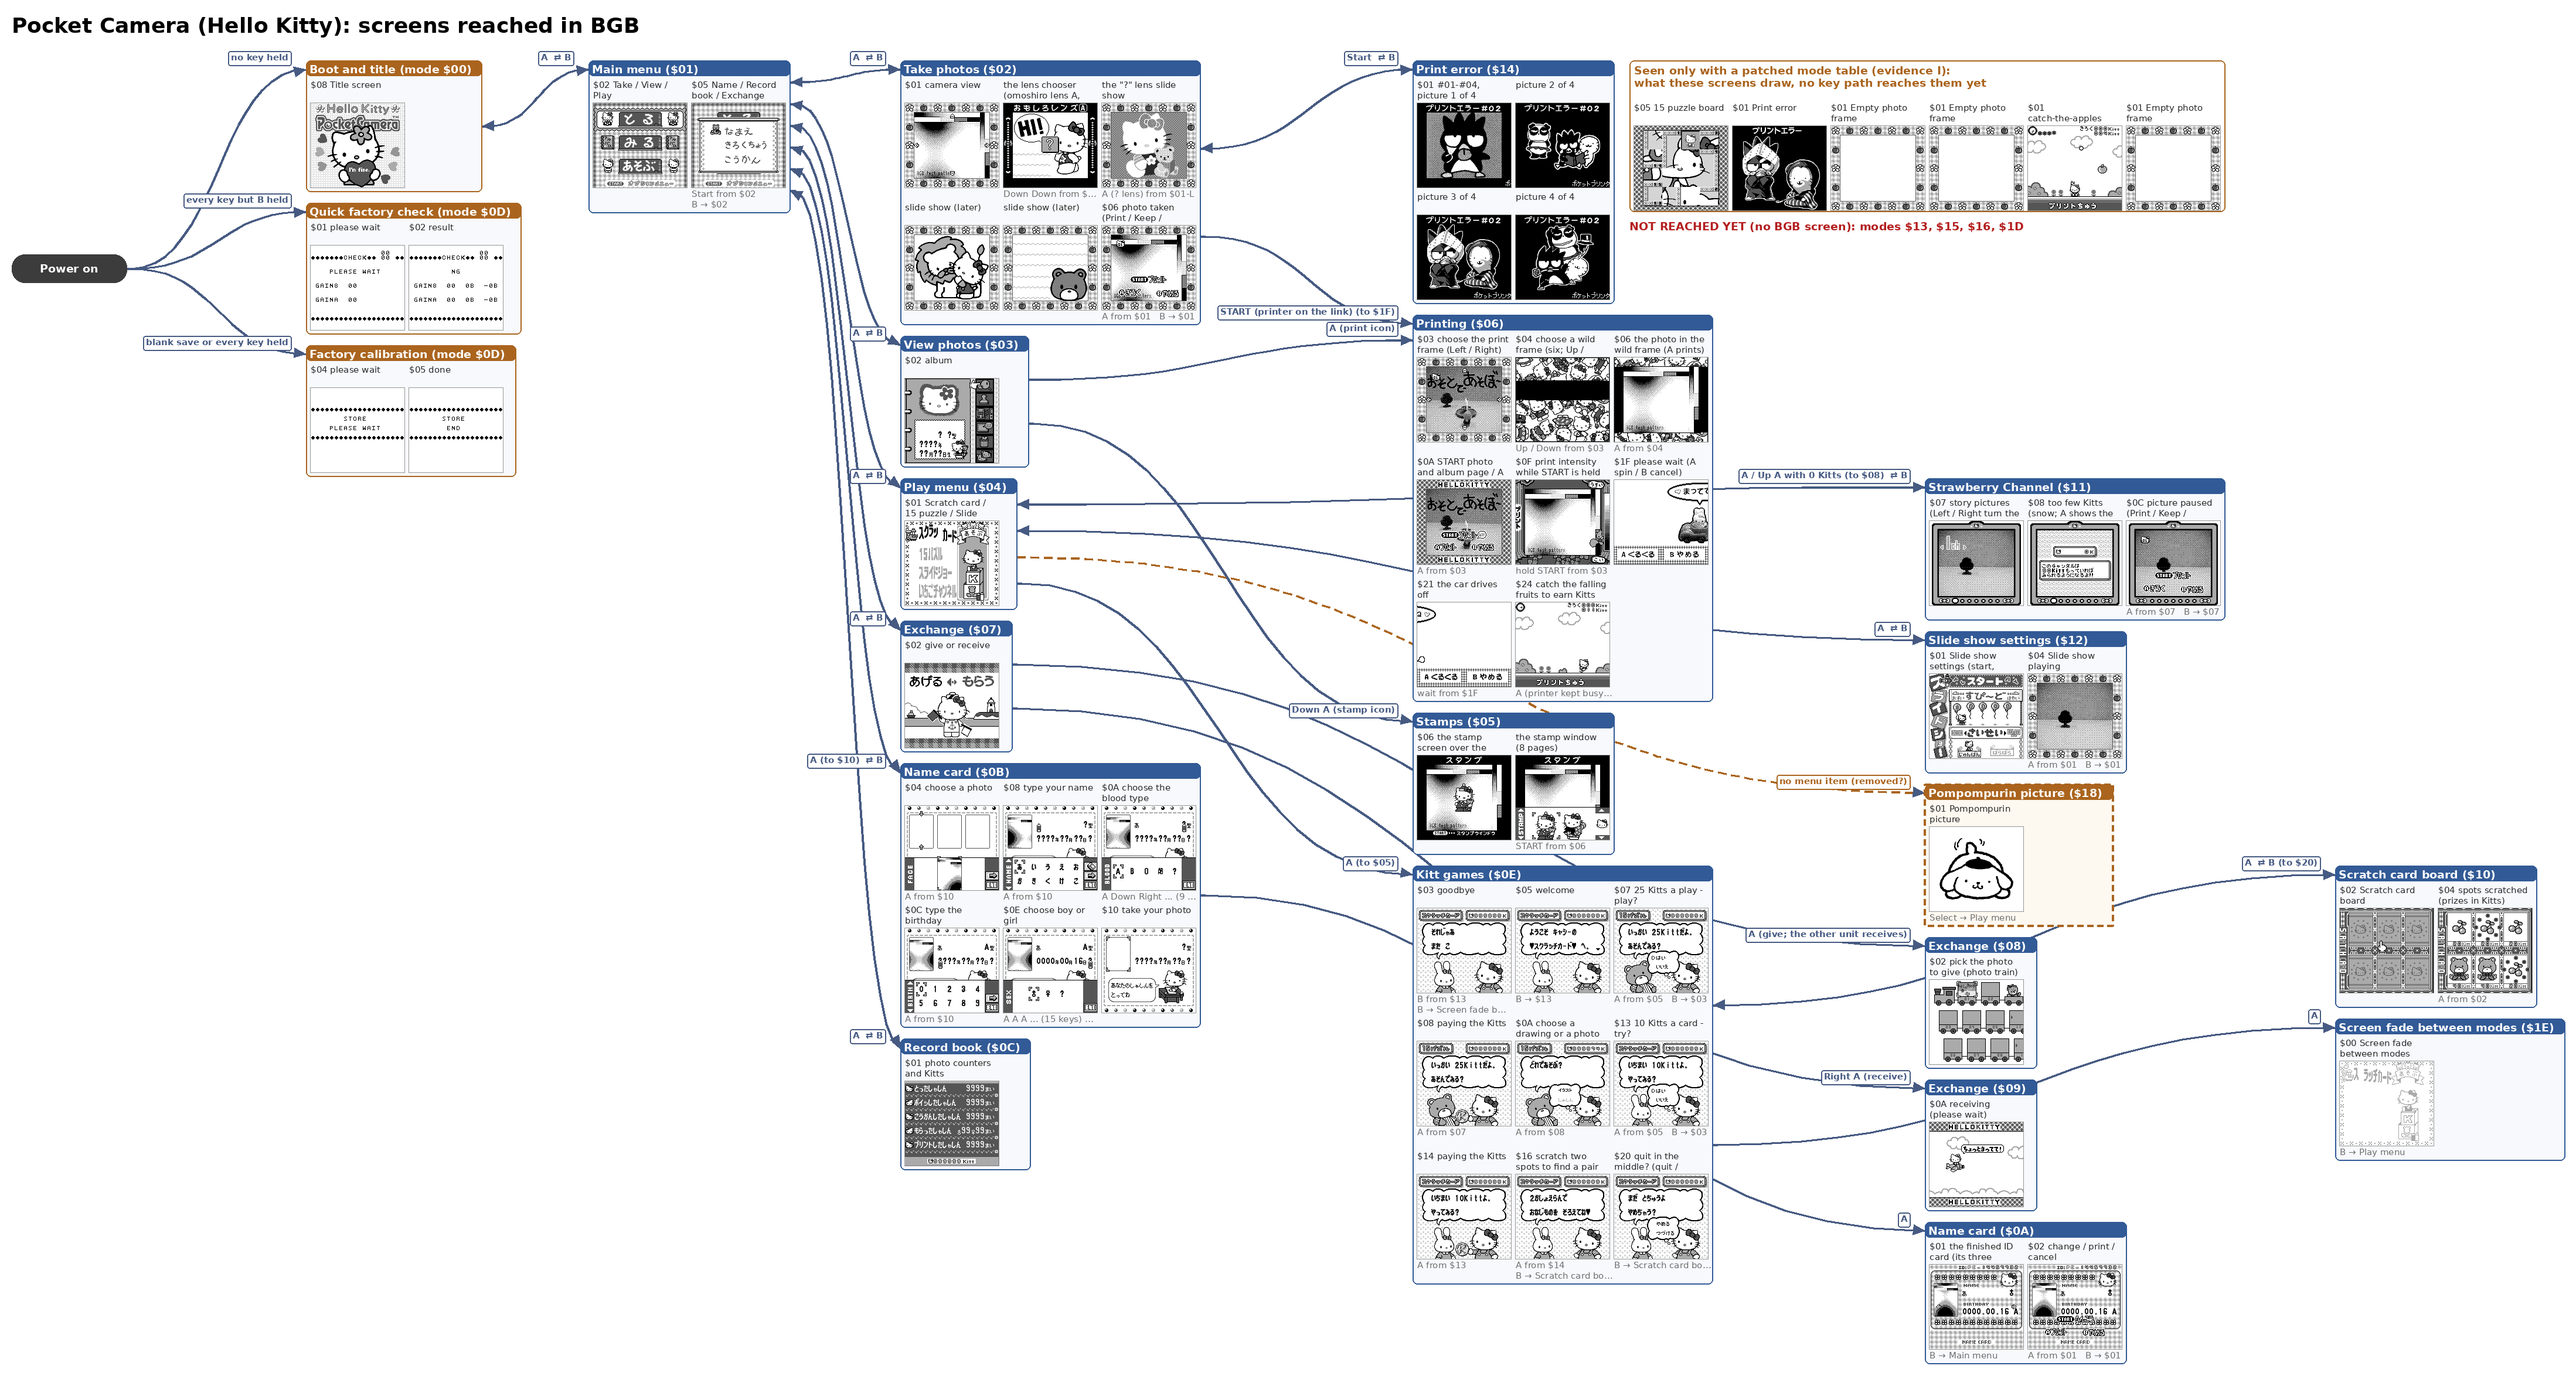
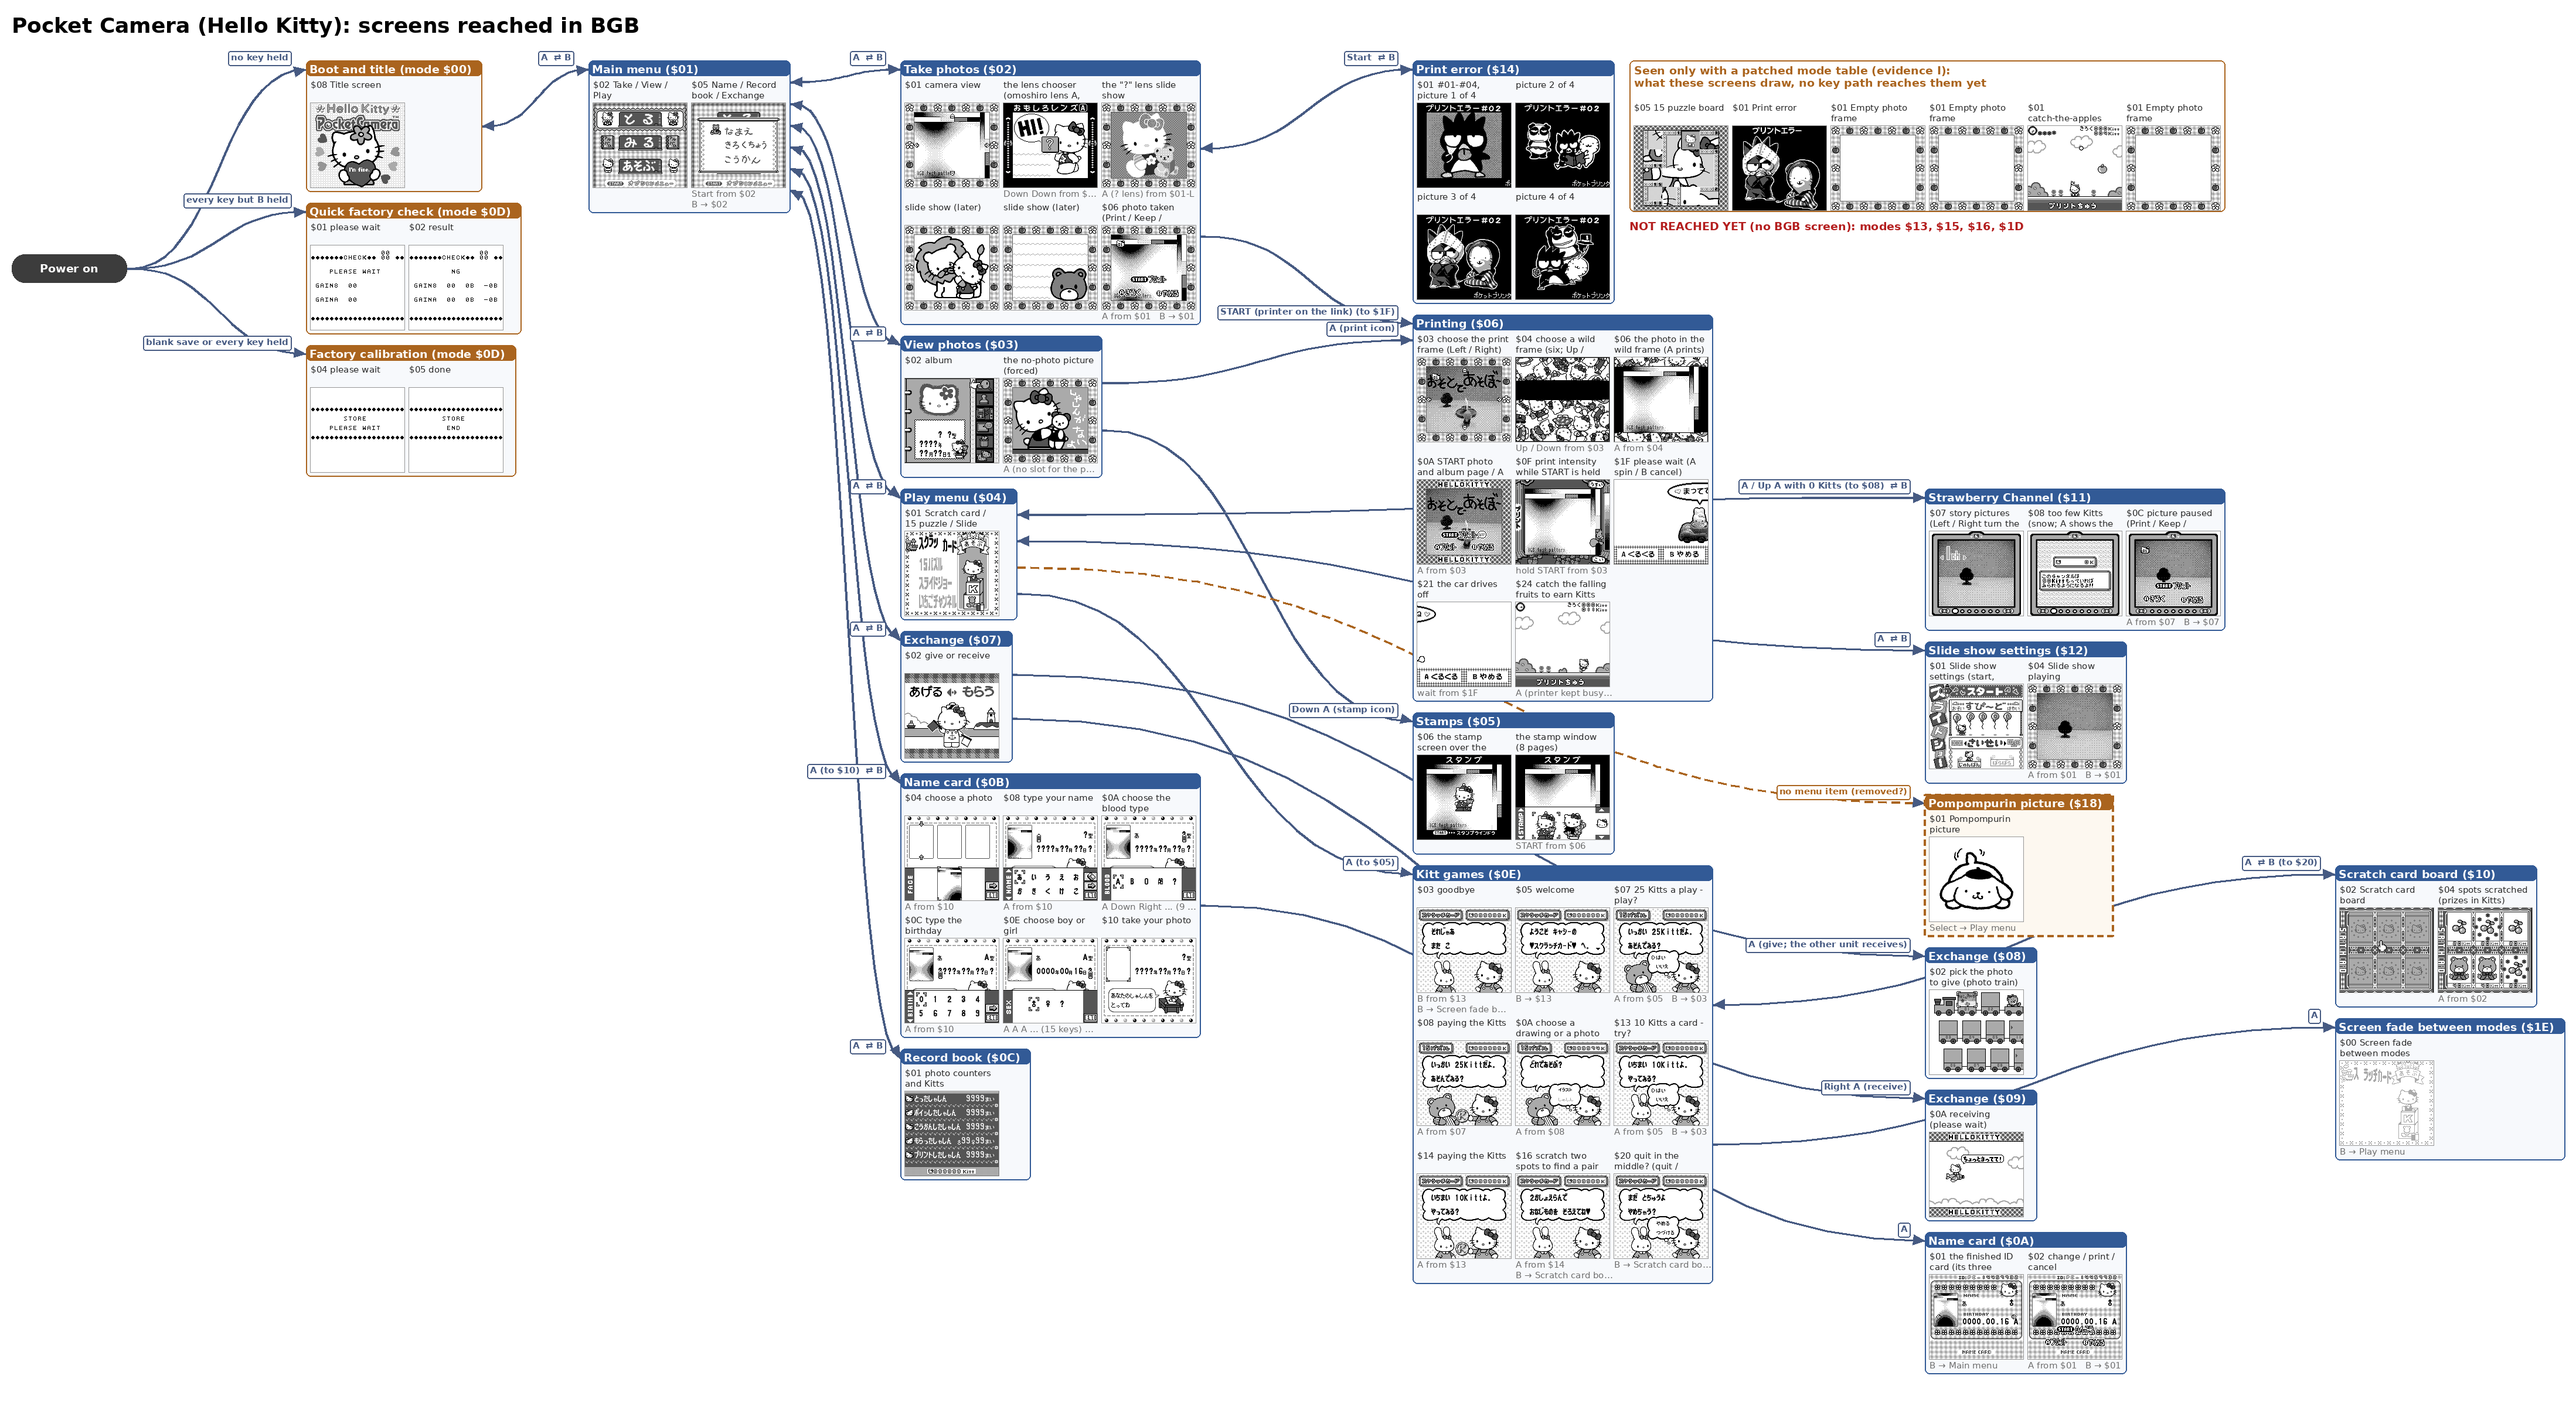
Hello Kitty: the no-photo picture 11:7000 shown in BGB with Photo_FindSlotA patched to fail (forced, I; no key path found), in the tree and README; ROADMAP 13a done
Claude-Session: https://claude.ai/code/session_011bkRcGXfJ3fZfBVgH9Dsk3

diff --git a/roms/hello_kitty/README.md b/roms/hello_kitty/README.md
@@ -56,6 +56,7 @@ The Kitty engine is not the Japanese one, so this ROM has its own tracer, `tools
 * **The おもしろレンズ slide show (C, BGB, 2026-11-12, owner's key path).** In the live view (mode `$02` state `$01`), Down, Down open おもしろレンズ Ⓐ (the lens chooser, Hello Kitty saying HI! next to a "?" lens); A on the "?" lens starts a slide show of Hello Kitty pictures inside the camera frame (Kitty with her teddy bear, Kitty on lined paper, Kitty with a lion, a bear face, Kitty with a speech balloon, blank pages between them), every few seconds a new picture; the game stays in mode `$02` state `$01`. The 96 picture effects of `04:5E8A`, forced one by one in BGB (each in a patched copy), are transforms of the live picture only: the slide show is not one of them.
 * **Stamps (C, BGB, 2026-11-12, owner).** The second icon of the album binder (mode `$03` state `$02`, Down A) opens the stamp screen over the photo (mode `$05` state `$06`, until now seen only with a patched mode table); START opens the stamp window: 8 pages, chosen with Right Right (the tab column) and Up / Down: large Kitty stamps (30), small Kitty and friends stamps, face parts, kana in three sizes, kanji, shapes and arrows. Every row of every page, as the window shows it while scrolling: [`screens/stamps_kitty.png`](screens/stamps_kitty.png).
 * **Lenses (C, BGB, 2026-11-13, owner).** In the live view, Up / Down step through 20 lenses: ふつうのレンズ (normal), Up: おばけレンズ ①-⑧ ("ghost" lenses: mirrors, flips, stretches, a 2 x 2 split), Down: おもしろレンズ Ⓐ-Ⓚ ("fun" lenses: Ⓐ the slide show above, the others Hello Kitty pictures beside, above or between 2, 2 x 2 photo windows); every lens, and the live view after A on each fun lens: [`screens/lenses_kitty.png`](screens/lenses_kitty.png).
+* **The no-photo picture (I, BGB, 2026-11-13).** `Photo_LoadEmptyPicture` draws `11:7000` (しゃしんがないよ, "no photo") when `Photo_FindSlotA` finds no slot for a photo number (album photo view, stamp screen, exchange receiver, slide show). Normal play keeps the numbers compact (deleting photo 01 of two renumbers the other) and no key path was found; a copy with `Photo_FindSlotA` patched to fail shows it in the album photo view (`screens/extra_03_05_noslot.png`, dashed in the tree).
 * **Photo exchange (C, BGB, 2026-11-08).** Two linked BGB units (`tools/kitty_bgb_link.py`), the giving one with a photo it has just taken (title A, take A, shutter A, keep A, B): both open the exchange (mode `$07`), the giver presses A on "あげる" (give) first and the receiver Right A ("もらう", receive); the giver picks the photo on the photo train (mode `$08`, states `$00`-`$05`) and sends it (mode `$09` states `$01`-`$07`), the receiver waits ("ちょっとまってて", states `$08`, `$0A`, `$0E`, `$0F`, `$10`); both return to mode `$07`, and the receiver's SRAM changes in its first photo slot. When the giver has no photo, both show "no photo to give / receive" after a time-out. `Link_SumSlotBuffer` (unused in the Japanese ROM) runs here.
 * **Super Game Boy (C, BGB, 2026-11-08).** BGB as a Super Game Boy (`SystemMode=2`, `tcrf_check/tools/bgb_sgb_capture.sh`) shows a pink houndstooth border with the "Hello Kitty" logo and four coloured Kitty faces in the corners ([`screens/sgb_border.png`](screens/sgb_border.png), the title screen, 256 x 224); read watchpoints on the five transfer sources of bank `$08` (`08:40D0`, `4146`, `41F6`, `5206`, `6216`) all hit, so the never-read data of bank `$08` is the SGB data.
 * **Strawberry Channel without Kitts (C, BGB, 2026-11-08).** With 0 Kitts the channel shows snow (mode `$11` states `$03` / `$08`, `StrawberryCh_LockedCallback`) and A shows the price ("this channel can be watched with 50 Kitts"; prices `07:4F3A`: 50, 800, 100, 400, 200, 2,000 Kitts and one free channel).

diff --git a/ROADMAP.md b/ROADMAP.md
@@ -89,6 +89,6 @@ The parity program, cheapest and most enabling first (sessions are estimates):
 10. **Hello Kitty L1 to 0 uncertain bytes** (1-2 sessions): follow the `Src_` blocks into their WRAM buffers (who reads the buffer, what it becomes on screen), and the kinds of the leftovers.
 11. **Hello Kitty L4** (3-4 sessions: WRAM, HRAM, SRAM with real saves, RAM names, constants), then **Hello Kitty L5** (1-2 sessions).
 12. **L3 doubts of both ROMs** settled by BGB runs where a run can (alongside 8-9).
-13a. **Hello Kitty, owner-guided screens** (BGB; the stamps done 2026-11-12, the 20 lenses 2026-11-13, `screens/lenses_kitty.png`): left, the no-photo picture `11:7000` from a save with a gap in the photo numbers (forced, I). Run printer-linked BGB jobs alone: with the CPU shared, the link handshake stalls (2026-11-12).
+13a. ~~**Hello Kitty, owner-guided screens**~~ done: (BGB; the stamps done 2026-11-12, the 20 lenses 2026-11-13, `screens/lenses_kitty.png`) and the no-photo picture `11:7000`, forced (`Photo_FindSlotA` patched, I): done. Run printer-linked BGB jobs alone: with the CPU shared, the link handshake stalls (2026-11-12).
 13b. **Credit the BGB-only paths** (about 1 session): replay the owner's key paths of 13a and of 2026-11-12 (wild-frame print, print intensity, print without a printer, the lens slide show) in the core with `tools/kitty_core_paths.py`, so that the reachability map and the doubts list count them.
 13. **L6 everywhere** (open-ended): the shared retail source, character sets and texts, the open questions of `docs/12`, owner validation of names (with the printer routines' developers' names), the build history of the prototype.
